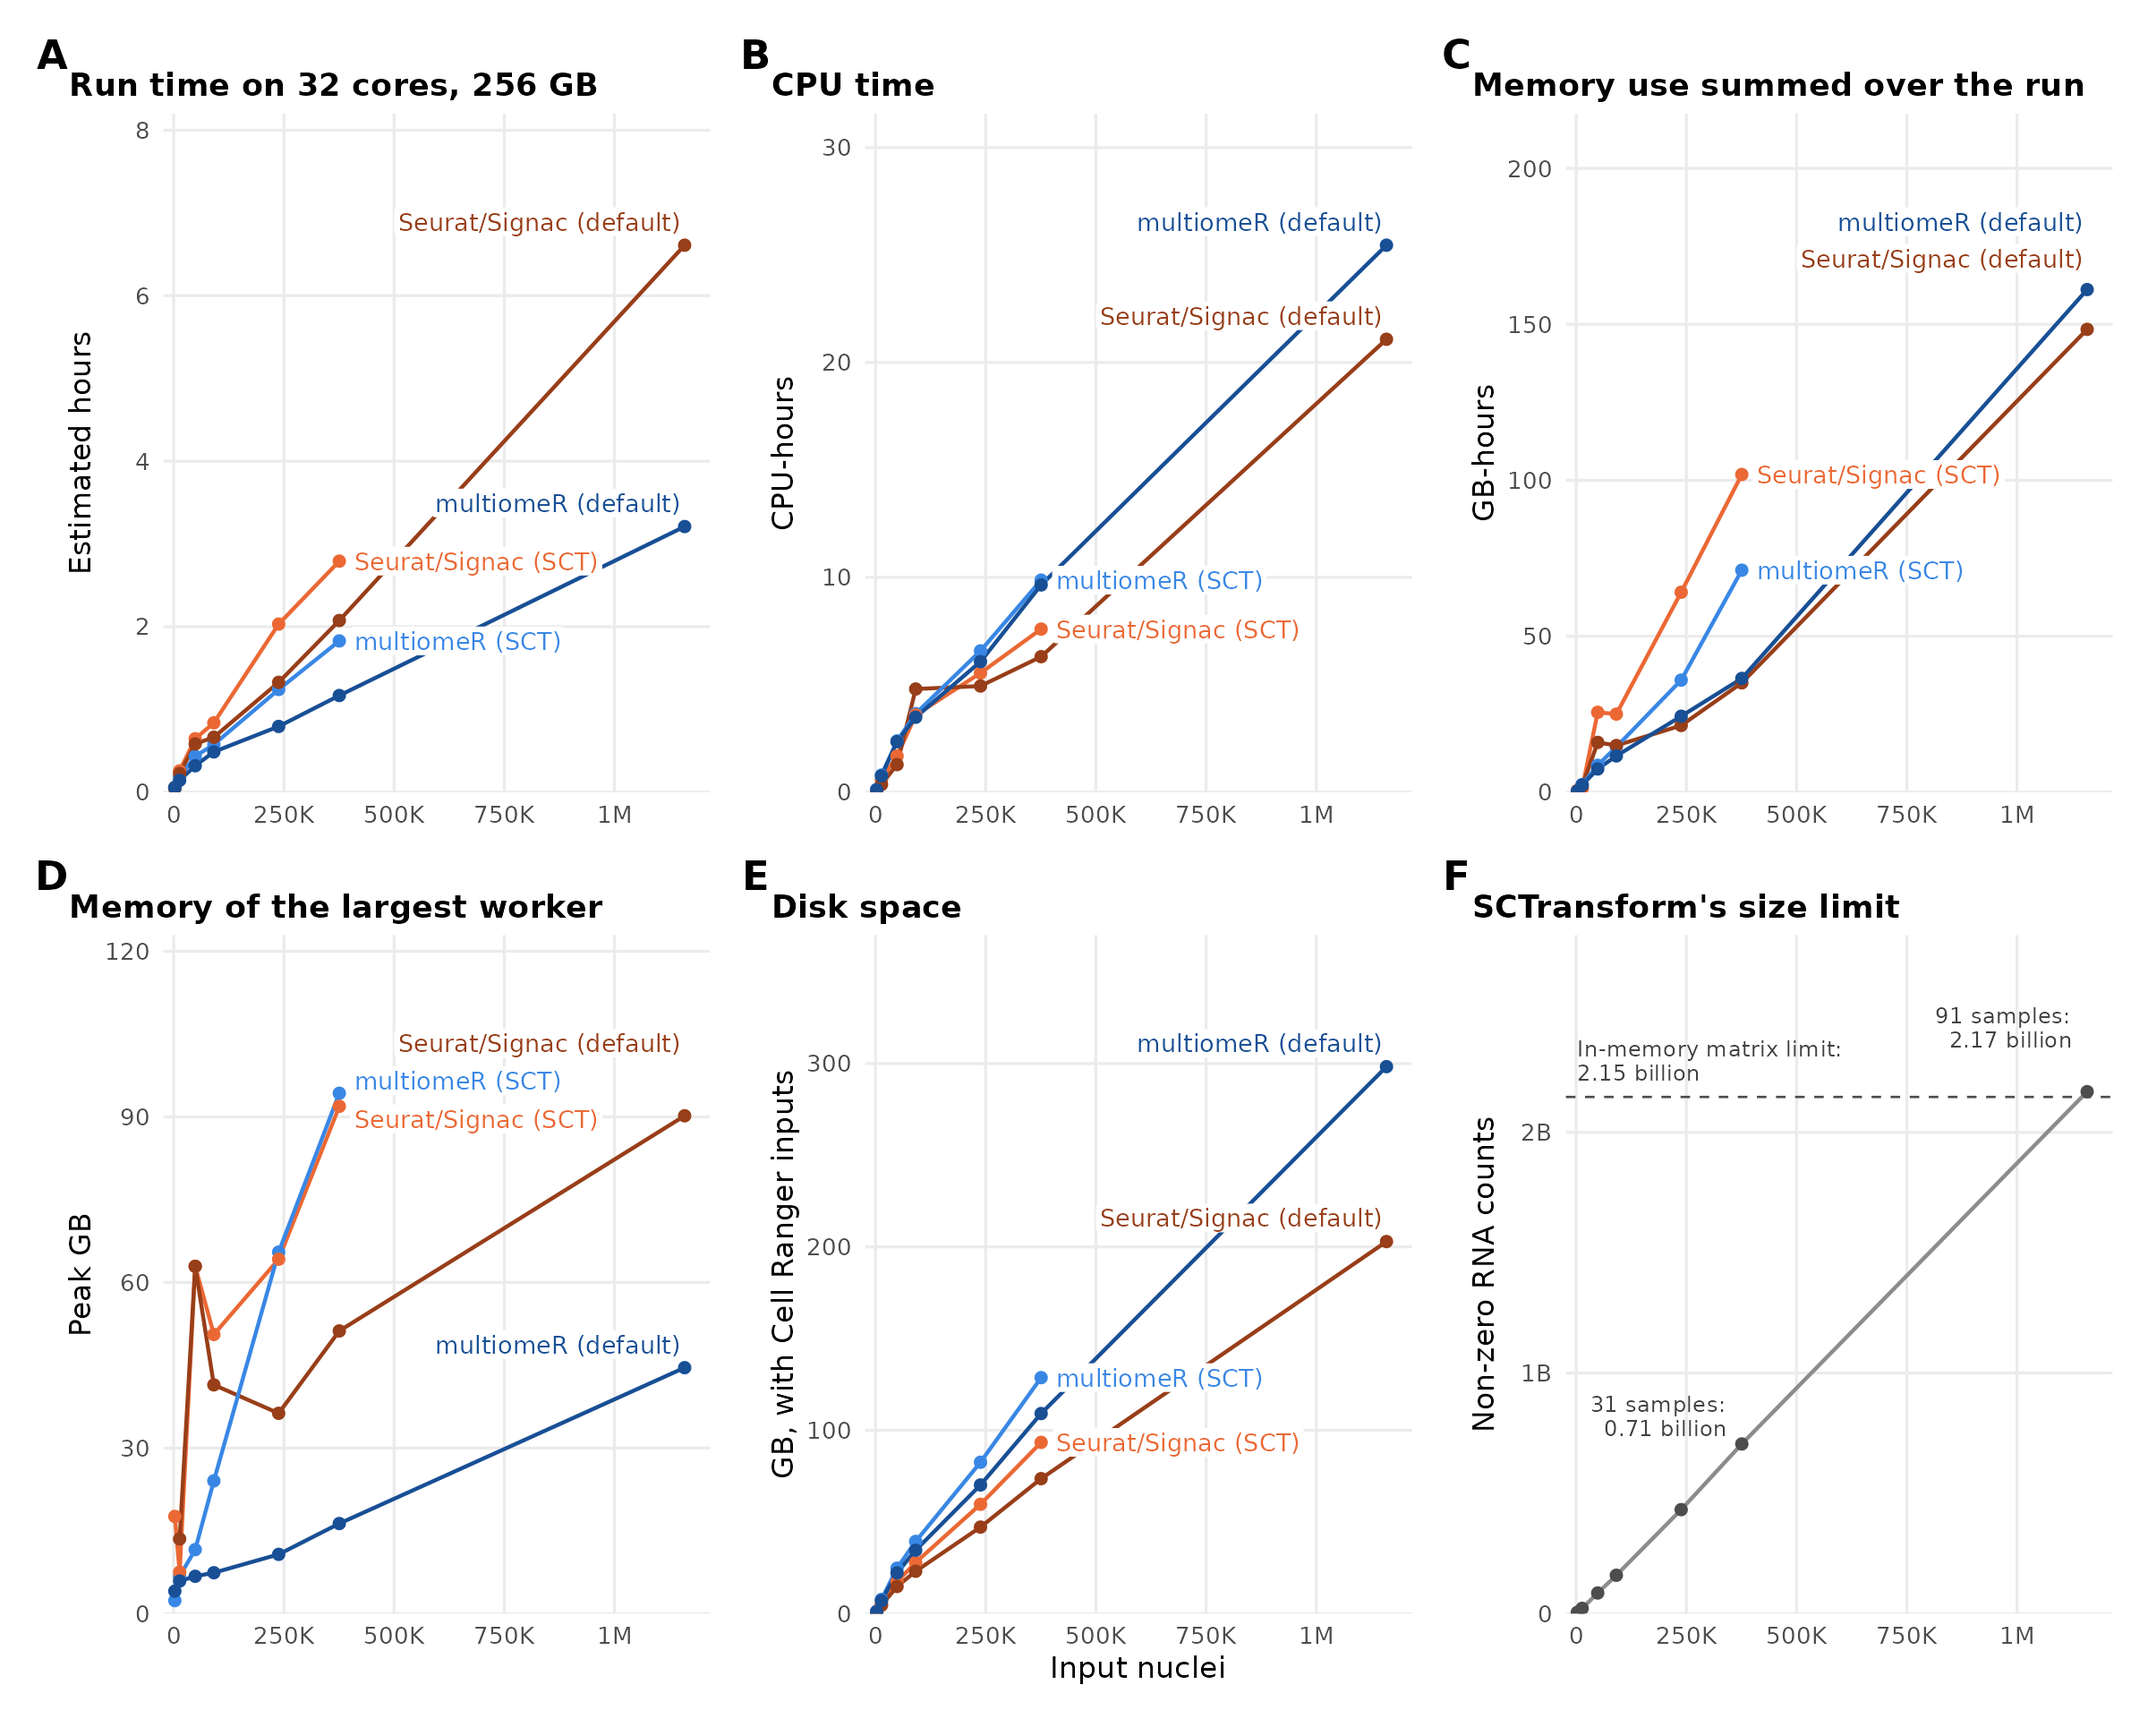
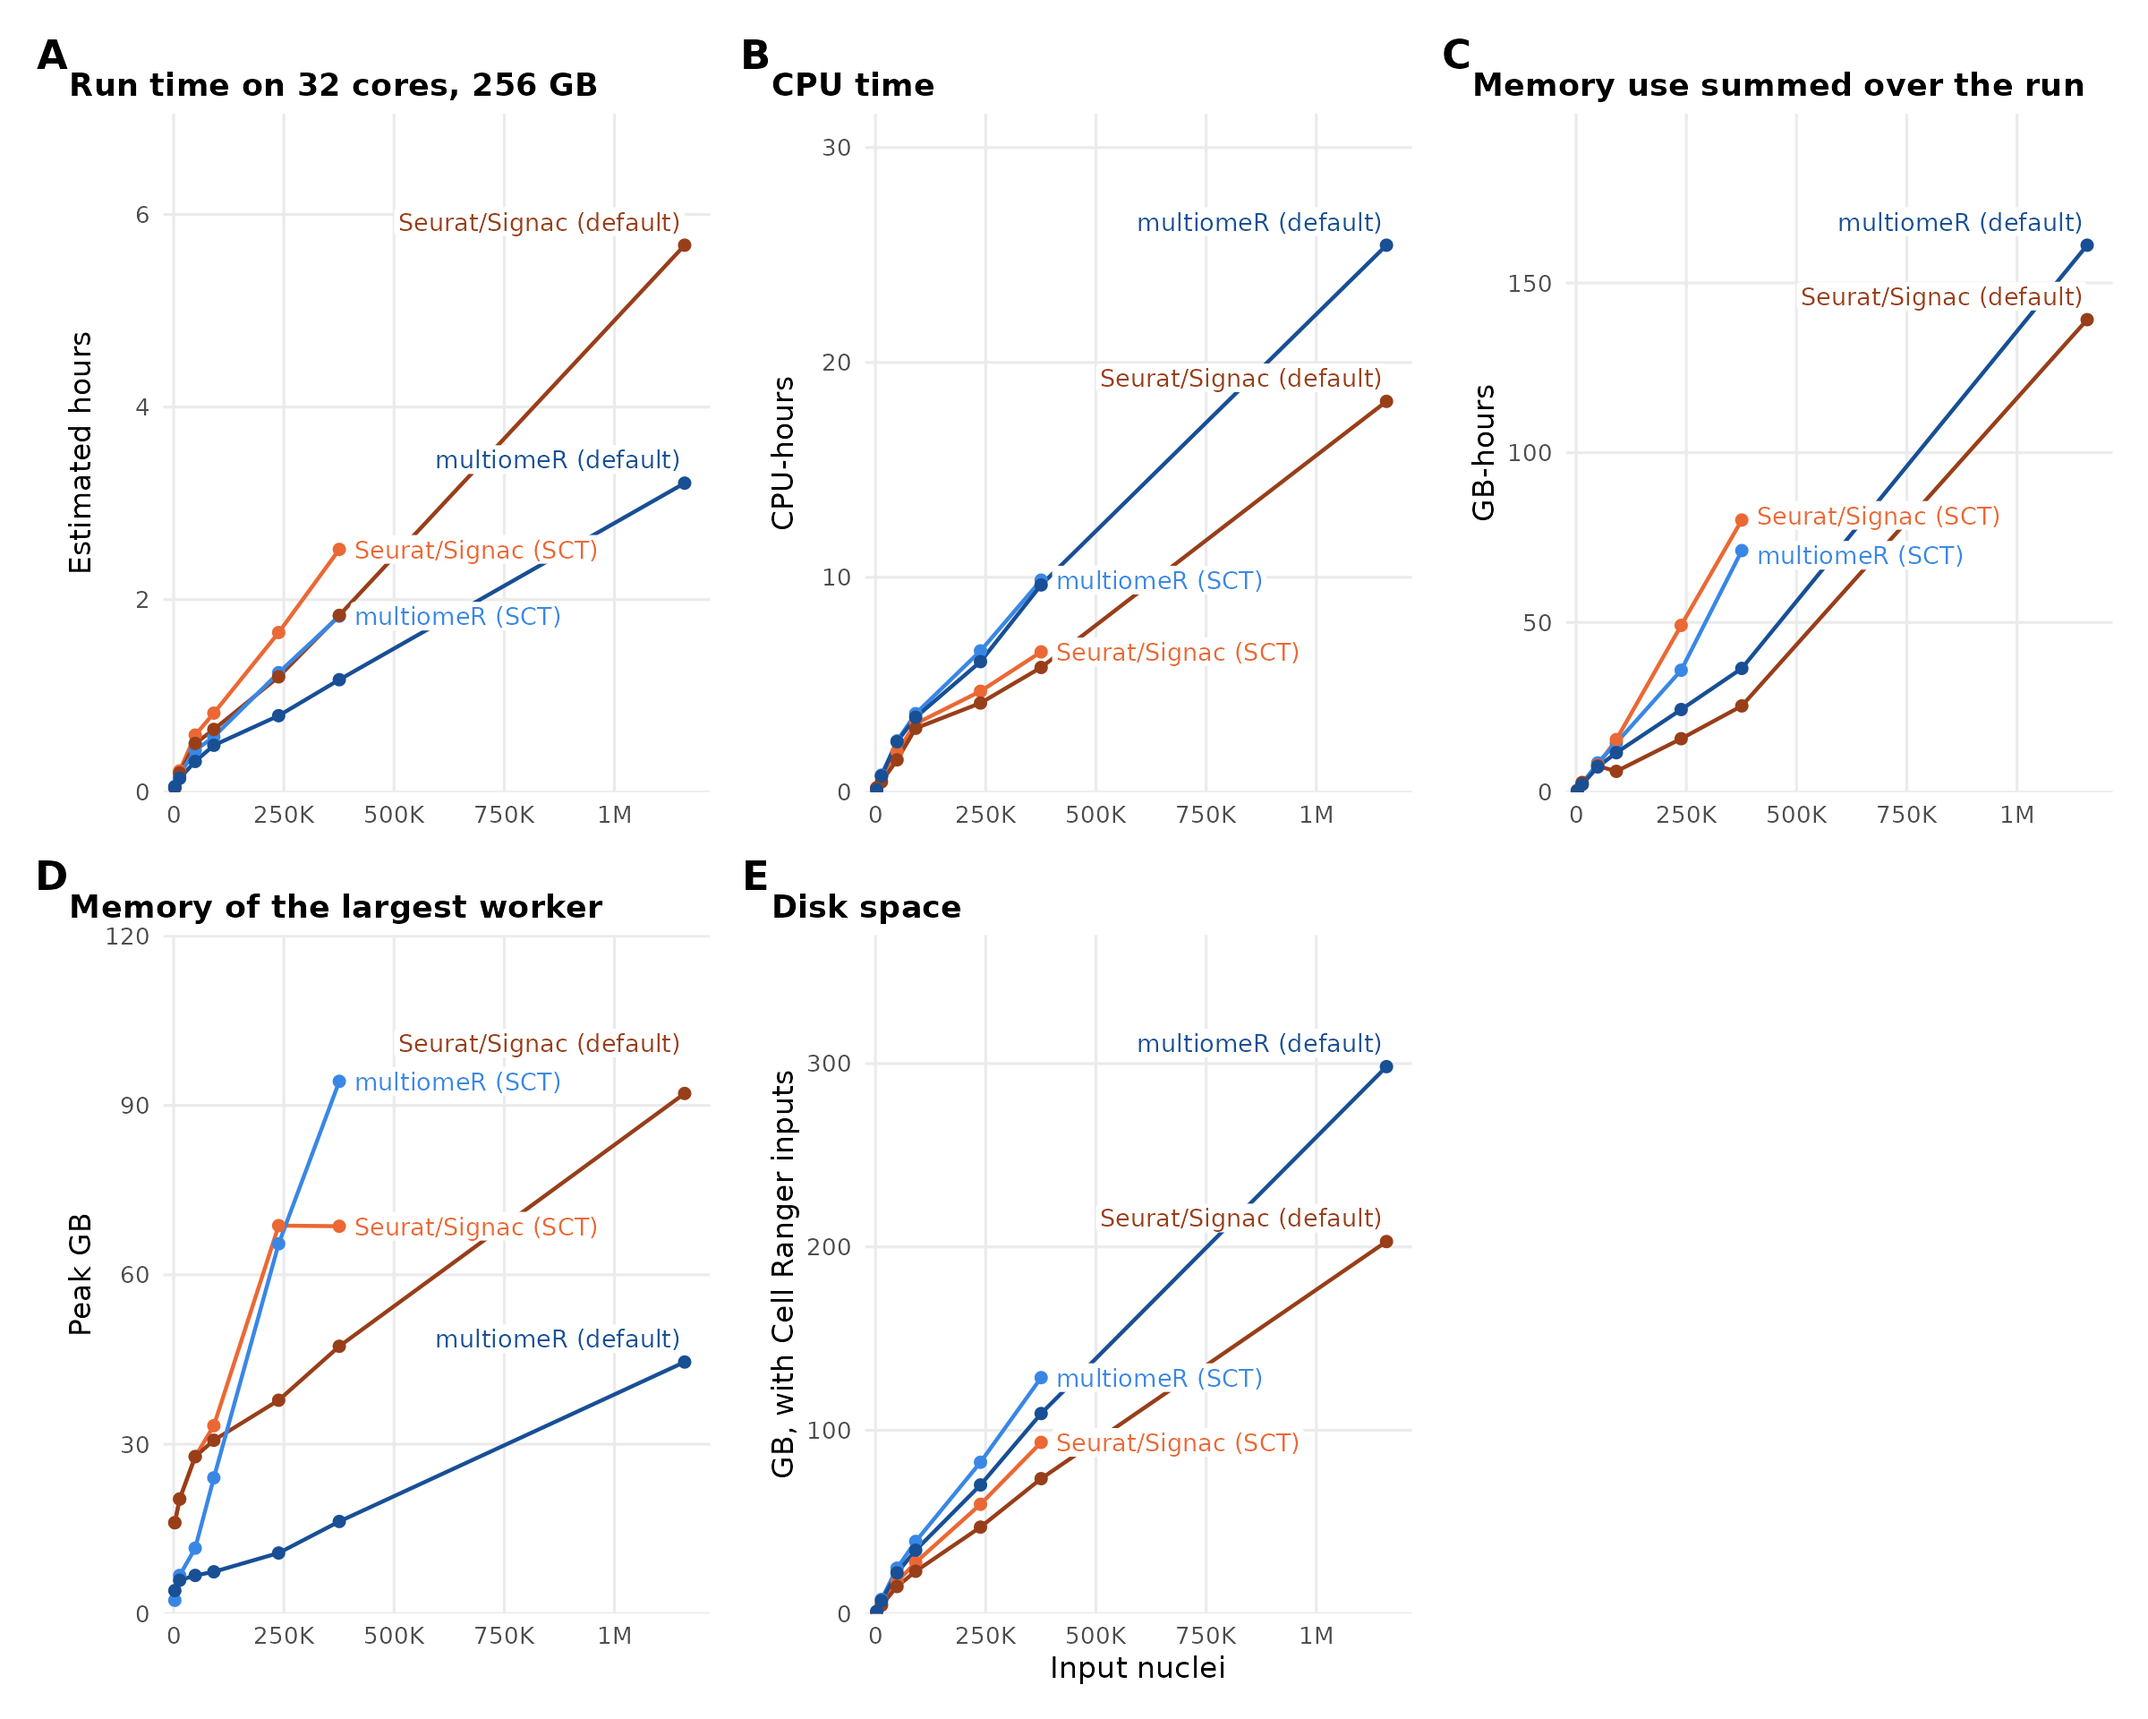
Measure the Seurat/Signac baselines with garbage collection and drop S2F
Both Seurat/Signac chains were measured again at 594af40e, each step
running garbage collection first. Their peak memory now rises with size,
16 to 47 GB from 1 to 31 samples with log-normalization, instead of
jumping to 63 GB at five samples, where the peak calling had run after
the 31-sample joint object. At 31 samples the SCTransform chain takes an
estimated 2.5 h, against 1.8 h for multiomeR with its Seurat exports,
and at 91 samples the log-normalization chain 5.7 h, against 3.2 h. The
91-sample input steps, slow twice while their node's network storage
access was slow, took 8 minutes each.

S2 drops its panel of RNA non-zero entries against SCTransform's matrix
limit, which benchmark_sizes.tsv and the legend now give, and no longer
needs to skip unsampled values. The README describes the garbage
collection and the final runs.

contained_target_breaking: supplementary_table_S6, supplementary_figures_S2_S4_plots

diff --git a/pipeline_manuscript_figures/README.md b/pipeline_manuscript_figures/README.md
@@ -170,10 +170,10 @@ per-well steps are those of the comparison aggregations. SCTransform cannot run
 at that size in either workflow: Seurat converts the joined count matrix to a
 `dgCMatrix`, which holds at most 2^31 - 1 non-zero entries, and `sizing_91x` has
 2.17 billion. Log-normalization keeps the counts on disk and runs at 91
-samples, so both tools' default normalizations reach that size. S2F shows each
-size's RNA non-zero entries against that limit, the genes detected in each
-called nucleus summed from Cell Ranger's per-barcode metrics. They equal the
-count in Seurat's error. In S2A-E, colour gives the tool, blue for multiomeR and
+samples, so both tools' default normalizations reach that size.
+`data/benchmark_sizes.tsv` gives each size's RNA non-zero entries, the genes
+detected in each called nucleus summed from Cell Ranger's per-barcode metrics,
+which equal the count in Seurat's error. In S2, colour gives the tool, blue for multiomeR and
 orange for Seurat/Signac, and the darker shade each tool's default
 normalization. Each line is named in its colour by tool and normalization
 method: to the right of its last point for lines that end at 31 samples, and
@@ -283,7 +283,11 @@ dashed line at 100%, and careful manual checkpointing narrows that gap.
 - **Peak memory of a worker:** the largest sampled memory of a worker while
   it ran a counted step, which sets the machine size, and that step. It
   includes memory the worker kept from its earlier steps, so the step that
-  reached it need not be the one that needed it.
+  reached it need not be the one that needed it. The Seurat/Signac steps
+  therefore run garbage collection first: their workstation worker runs the
+  steps of every aggregation one after another, as no script would. Without
+  it, the five-sample peak calling, which ran right after the 31-sample joint
+  object, started at 59 GB and peaked at 63 GB, against 28 GB with it.
 - **Reserved CPU and RAM:** each target's runtime plus its share of its
   worker's idle time, times the cores and memory that Slurm booked for that
   worker: the tier's `cpus_per_task` and `memory_gigabytes_required`, which
@@ -330,7 +334,7 @@ The series ran from 18 to 21 October 2026 on three nodes of one model (AMD EPYC
 store on that node's disk:
 
 - `comparison` at commit f9a109d5, with both Seurat/Signac chains measured at
-  1c6e09a9, each step alone on the 32-core, 256-GB workstation worker;
+  594af40e, each step alone on the 32-core, 256-GB workstation worker;
 - `comparison_lognorm_91x` on `sizing_91x`'s store after its sizing run,
   measured again in the same way;
 - `sizing_small`, which builds `sizing_1x` to `sizing_20x`, at 950472fd, on the
@@ -353,13 +357,13 @@ sampled from 12:00 to 02:00 on 19-20 October and counting the series' own
 workers, were about 50 cores on node_4 and 28 on node_2. node_1
 was not sampled, and a spot check showed about 29. Times may therefore be
 somewhat longer than on idle nodes. The Seurat/Signac chains were measured
-again on 20 and 21 October. A first log-normalization series on its own node
+again on 20 and 21 October, finally with garbage collection at 594af40e. A first log-normalization series on its own node
 read the largest Cell Ranger outputs from network storage 4 to 10 times as
 slowly as the comparison's node, twice, with most cores idle, so that chain was
 moved to the comparison's store. On `comparison_lognorm_91x`'s node, reading
-the 91 Cell Ranger gene-expression matrices one after another took 43 and then
-39 minutes, against 5.8 minutes on 19 October, so that chain's estimate may be
-about half an hour too long. Each record keeps its latest build. S-LDSC's cell-type fits and matched-size
+the 91 Cell Ranger gene-expression matrices took 43 and then 39 minutes while
+its access to network storage was slow, against 8 minutes in the final
+measurement. Each record keeps its latest build. S-LDSC's cell-type fits and matched-size
 annotation records moved from 16 GB to 60 GB workers during the sizing top-ups,
 so `benchmark_allocations.tsv` gives each recorded target's request in its
 latest build.
